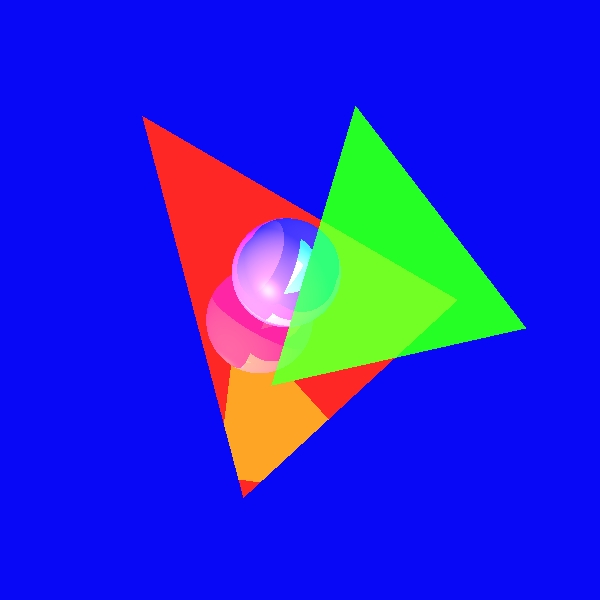
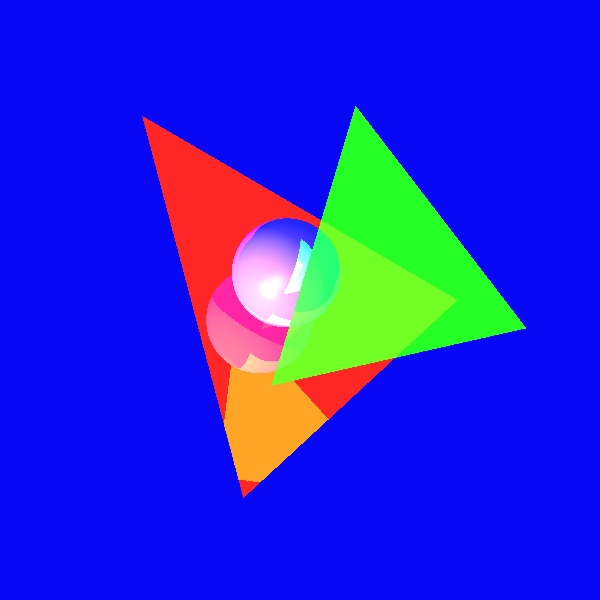
Mini Project 1

Changed region(s): [[0.39, 0.36, 0.54, 0.54], [0.36, 0.57, 0.42, 0.63]]

diff --git a/MP/src/renderer/Render.java b/MP/src/renderer/Render.java
@@ -10,7 +10,9 @@ import static primitives.Util.*;
 import static primitives.Util.alignZero;
 
 import java.lang.Math;
+import java.util.ArrayList;
 import java.util.List;
+import java.util.Random;
 
 /**
  *  A rendering class for creating a scene.
@@ -28,7 +30,7 @@ public class Render {
 	private Scene _scene;
 	private ImageWriter _imageWriter;
 
-	
+
 
 	/*** Constructors: ***/
 
@@ -77,7 +79,7 @@ public class Render {
 					_imageWriter.writePixel(j, i, calcColor(closestPoint, r).getColor());
 				}
 			}
-		
+
 	}
 
 	/**
@@ -106,7 +108,7 @@ public class Render {
 		_imageWriter.writeToImage();
 	}
 
-	
+
 	/**
 	 * Function <i>getClosestPoint</i> - calculate the closest point for finding the wanted color.
 	 * 
@@ -145,8 +147,8 @@ public class Render {
 	 */
 	private Color calcColor(GeoPoint geopoint, Ray inRay) 
 	{
-        Color resultColor = calcColor(geopoint, inRay, MAX_CALC_COLOR_LEVEL, 1.0);
-        resultColor = resultColor.add(_scene.get_ambientLight().get_intensity());
+		Color resultColor = calcColor(geopoint, inRay, MAX_CALC_COLOR_LEVEL, 1.0);
+		resultColor = resultColor.add(_scene.get_ambientLight().get_intensity());
 
 		return resultColor;
 	}
@@ -180,7 +182,7 @@ public class Render {
 		double kt = geoPoint.geometry.get_material().get_KT();
 		double kkr = k * kr;
 		double kkt = k * kt;
-		
+
 		List<LightSource> lightSources = this._scene.get_Lights();
 
 		if(lightSources != null)
@@ -199,7 +201,7 @@ public class Render {
 					}
 				}
 			}
-		
+
 		if(kkr > MIN_CALC_COLOR_K) {
 			Ray reflectedRay = constructReflectedRay(n, pointGeo, inRay);
 			GeoPoint reflectedPoint = this.findCLosestIntersection(reflectedRay);
@@ -221,7 +223,7 @@ public class Render {
 
 
 	/**
-	 * Function <i>transparency</i> - calculates the transparency number of the color.
+	 * Function <i>transparency</i> - Calculates the transparency number of the color.
 	 * 
 	 * @param lightSource - the light source.
 	 * @param l - 
@@ -230,19 +232,94 @@ public class Render {
 	 * @return the transparency number of the color.
 	 */
 	private double transparency(LightSource lightSource, Vector l, Vector n, GeoPoint geoPoint) {
-		Vector lightDirection = l.scale(-1);
+
+		double ColorList[] = new double[81];
+		double numSamples = 81;
+		double average = 0;
+		Point3D source = geoPoint.getPoint();
+
+		Vector lightDirection = l.scale(-1); // Flips the direction
 		Ray lightRay = new Ray(geoPoint.point, lightDirection, n);
+
+		ColorList[0] = calcShade(lightSource, source, lightRay);
+		average += ColorList[0];
+		
+		double zVal = lightDirection.get_head().getZ().get();
+
+		for (int d = 1; d < numSamples; d++)
+		{
+			double randX = rand();
+			double randY = rand();
+			
+			double xVal = lightDirection.get_head().getX().get() + randX;
+			double yVal = lightDirection.get_head().getY().get() + randY;
+			
+			Vector randDirection = new Vector(xVal, yVal, zVal);
+
+			Ray randLightRay = new Ray(source, randDirection, n);
+
+			ColorList[d] = calcShade(lightSource, source, randLightRay);
+
+			average += ColorList[d];
+		}
+
+		average = average/numSamples;
+
+		return average;
+	}
+
+
+	/**
+	 * Function <i>rand</i> - Calculates a random number.
+	 * 
+	 * @param radius - the boundary of the circle.
+	 * @return a random number - positive or negative.
+	 */
+	private double rand() {
+		double rand = Math.random();
+		double result = rand / 80;
+		
+		result *= getRandomSign();
+		
+		return result;
+	}
+	
+	
+	/**
+	 * Function <i>getRandomSign</i> - Calculates a random sign.
+	 * 
+	 * @return positive or negative 1.
+	 */
+	private int getRandomSign()
+	{
+		Random rand = new Random();
+	    if(rand.nextBoolean())
+	        return -1;
+	    else
+	        return 1;
+	}
+
+
+	/**
+	 * Function <i>unshaded</i> - Calculates a point's shaded value (1 = no shading, 0 = shading).
+	 * 
+	 * @param lightSource - the light source.
+	 * @param source - the point which will be checked.
+	 * @param lightRay - ray from a point on light source to the point.
+	 * @return point's shaded value (1 or 0).
+	 */
+	private double calcShade(LightSource lightSource, Point3D source, Ray lightRay) {
 
 		List<GeoPoint> intersection = _scene.get_geometries().findIntersections(lightRay);
 
 		if(intersection == null)
 			return 1d;
 
-		double lightDistance = lightSource.getDistance(geoPoint.point);
+		double lightDistance = lightSource.getDistance(source);
 		double ktr = 1d;
 
 		for (GeoPoint gp: intersection)
-			if(alignZero(gp.point.distance(geoPoint.point) - lightDistance) <= 0)
+			if(alignZero(gp.point.distance(source) - lightDistance) <= 0)
 			{
 				ktr *= gp.geometry.get_material().get_KT();
 
@@ -252,18 +329,18 @@ public class Render {
 		return ktr;
 	}
 
-
+/*
 	/**
 	 * Function <i>sign</i> - Checks if a value is positive.
 	 * 
 	 * @param val - a value.
 	 * @return true if it's positive.
-	 */
+	 *//*
 	private boolean sign(double val)
 	{
 		return (val > 0d);
 	}
-
+*/
 
 	/**
 	 * Function <i>calcSpecular</i> - calculate the secular color.

diff --git a/MP/src/unittests/SoftShadowsTests.java b/MP/src/unittests/SoftShadowsTests.java
@@ -1,0 +1,59 @@
+package unittests;
+
+import org.junit.Test;
+
+import elements.*;
+import geometries.*;
+import primitives.*;
+import renderer.*;
+import scene.Scene;
+
+public class SoftShadowsTests {
+
+	@Test
+	public void OurSceneTest() {
+		Scene scene = new Scene("Test scene");
+		scene.setCamera(new Camera(new Point3D(0, 0, -1000), new Vector(0, 0, 1), new Vector(0, -1, 0)));
+		scene.setDistance(1000);
+		scene.setBackground(new Color(218,28,76));
+		scene.setAmbientLight(new AmbientLight(new Color(java.awt.Color.BLACK), 0.15));
+
+		scene.addGeometries( 
+				new Triangle(new Color(java.awt.Color.GREEN),new Material(0, 0, 0, 0.3, 0.5),
+						new Point3D(30, -20, 60),  //t11
+						new Point3D(35, 10, -60),   //t12
+						new Point3D(-16, 50, 0)), //t13
+				new Triangle(new Color(java.awt.Color.YELLOW),new Material(0, 0, 0, 0.3, 0.5),
+						new Point3D(-55, 10, 60),//t21
+						new Point3D(-45, -10, -20),   //t22
+						new Point3D(26, 57, 0)), //t23
+				new Triangle(new Color(java.awt.Color.BLUE),new Material(0, 0, 0, 0, 0.55),
+						new Point3D(0, 0, 400),   //t31
+						new Point3D(90, 80, -110),  //t32
+						new Point3D(-90, 80, -110)),
+	
+				new Sphere(new Color(java.awt.Color.BLUE), new Material(0.07, 0.2, 30, 0.7, 0), 7,
+						new Point3D(0, 10, -10)),
+				new Sphere(new Color(java.awt.Color.BLUE), new Material(0.07, 0.2, 30, 0.7, 0), 10,
+						new Point3D(20, 0, -30)),
+				new Sphere(new Color(java.awt.Color.BLUE), new Material(0.07, 0.2, 30, 0.7, 0), 17,
+						new Point3D(-28, -10, -30)),
+
+				new Sphere(new Color(java.awt.Color.BLUE), new Material(0.5, 0.5, 30), //
+						30, new Point3D(0, 0, 200))); 
+
+
+		scene.addLights(
+				new DirectionalLight(new Color(500, 300, 0),new Vector(0, 0, 1)),
+				new SpotLight(new Color(400, 240, 0), //
+						new Point3D(-80, 20, 0), new Vector(0.5, -0.5, 3), 1, 1E-5, 1.5E-7),
+				new SpotLight(new Color(400, 240, 0), //
+						new Point3D(30, 0, -100), new Vector(2, 0, 3), 1, 1E-5, 1.5E-7));
+
+		ImageWriter imageWriter = new ImageWriter("Mini Project 1", 200, 200, 600, 600);
+		Render render = new Render(imageWriter, scene);
+
+		render.renderImage();
+		render.writeToImage();
+	}
+}

diff --git a/MP/src/Main.java b/MP/src/Main.java
@@ -3,6 +3,8 @@ import primitives.*;
 import static java.lang.System.out;
 import static primitives.Util.*;
 
+import java.util.Random;
+
 /**
  * Test program for the 1st stage.
  *
@@ -12,13 +14,13 @@ import static primitives.Util.*;
 
 public final class Main {
 
-    /**
-     * Main program to tests initial functionality of the 1st stage
-     * 
-     * @param args irrelevant here
-     */
-    public static void main(String[] args) {
-
+	/**
+	 * Main program to tests initial functionality of the 1st stage
+	 * 
+	 * @param args irrelevant here
+	 */
+	public static void main(String[] args) {
+		/*
     	try { // test zero vector
             new Vector(0, 0, 0);
             out.println("ERROR: zero vector does not throw an exception");
@@ -71,18 +73,31 @@ public final class Main {
              out.println("ERROR: Point - Point does not work correctly");
 
         out.println("If there were no any other outputs - all tests succeeded!");
- 
-    }
-    
-
-	
+		 */
+		
+		for(int i = 0; i<20; i++) {
+			double r = rand(9);
 			
-    
-    
-    
-    
-    
-    
-    
-    
+			r = r * getRandomSign();
+			out.println("result: "+r);
+		}
+
+	}
+	
+	private static double rand(double radius) {
+		double rand = Math.random();
+		double result = rand / 100;
+		
+		return result;
+	}
+	
+	private static int getRandomSign()
+	{
+		Random rand = new Random();
+	    if(rand.nextBoolean())
+	        return -1;
+	    else
+	        return 1;
+	}
+
 }

diff --git a/MP/src/primitives/Ray.java b/MP/src/primitives/Ray.java
@@ -27,7 +27,6 @@ public class Ray {
 
 	/**
 	 * A <i>Ray</i> constructor - for a 3D point and a vector. 
-	 * Checks if the direction vector is normalized.
 	 * 
 	 * @param p - a 3D point for the ray's starting point.
 	 * @param d - the direction of the ray.
@@ -37,8 +36,15 @@ public class Ray {
 		this._direction = new Vector(d);
 		this._direction.normalize();
 	}
+	
 
-
+	/**
+	 * A <i>Ray</i> constructor - for a 3D point and 2 vectors. 
+	 * 
+	 * @param p - a 3D point for the ray's starting point.
+	 * @param d - the direction of the ray.
+	 * @param n - a normal.
+	 */
 	public Ray(Point3D p, Vector d, Vector n) {	
 		_direction = new Vector(d).normalized();
 

diff --git a/MP/src/unittests/ReflectionRefractionTests.java b/MP/src/unittests/ReflectionRefractionTests.java
@@ -136,7 +136,8 @@ public class ReflectionRefractionTests {
 
 
         scene.addLights(
-                new SpotLight(new Color(700, 400, 400),new Point3D(60, -50, 0),new Vector(0, 0, 1), 1, 4E-5, 2E-7),
+                new SpotLight(new Color(500, 250, 250),new Point3D(10, 10, 130), new Vector(-2, 2, 1),
+                        1, 0.0001, 0.000005),
                 new DirectionalLight(new Color(500, 300, 0), new Vector(1, -1, 1)));
 
         ImageWriter imageWriter = new ImageWriter("Our New Test", 200, 200, 600, 600);
